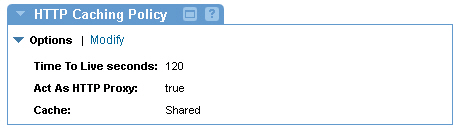
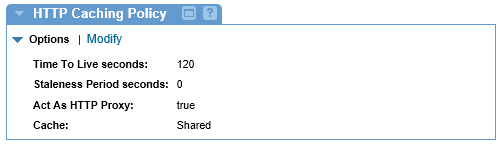
SM-13771 Add Staleness Period option HTTP caching

diff --git a/ag/policies/using_the_http_caching_policy.htm b/ag/policies/using_the_http_caching_policy.htm
@@ -66,6 +66,8 @@ nav-title: Using the HTTP Caching Policy
 <p>The policy includes the following configuration options:</p>
 <ul class="usingOrderedList">
   <li><strong>Time To Live</strong> - Allows you to specify the maxium time in seconds a response will be cached. If not specified, the maximum time will dictated by the SOA container settings. </li>
+  <li><strong>Staleness Period Seconds</strong> - If a value is entered, any cached entry will live in the cache for the number of seconds in Time To Live, plus number of seconds in Staleness Period.&nbsp; The &quot;stale&quot; portion of the entry will only be used if Cache-Control directives on the request allow for a stale entry to be used, by the use of max-stale directive.
+  The default is 0.&nbsp; </li>
   <li><strong>Act as HTTP Proxy</strong> - Uncheck to enable either the HTTP Proxy Mode (checked) or HTTP Mediation / Server Mode.</li>
   <li><strong>Shared Cache</strong> - Uncheck to enable  ability to use a private cache. You must also select a Subject Category (below). </li>
   <li><strong>Subject Category</strong> - Allows you to select a subject category if Shared Cache is unchecked. The subject category is used to find the cache's principal name that is set when the cache is created, and use it as part of the cache key.  </li>
@@ -87,9 +89,9 @@ nav-title: Using the HTTP Caching Policy
 <p>In Policy Manager, you can create a HTTPS Caching Policy instance using <strong>Add Policy</strong> in the <em>Policies &gt; Operational Policies</em> section. </p>
 <h5>Step 2: Modify Policy</h5>
 <p>When you <strong>Modify</strong> the HTTP Caching   policy on the <em>Policy Details</em> page the initial policy will look like this:</p>
-<p><img src="images/modify_http_caching_policy.jpg" width="477" height="511" /></p>
+<p><img src="images/modify_http_caching_policy.jpg" width="456" height="478" /></p>
 <p>Configure the policy options based on your requirements and <strong>Apply</strong>. </p>
-<p><img src="images/http_cache_policy_summary.jpg" width="454" height="132" /></p>
+<p><img src="images/http_cache_policy_summary.jpg" width="498" height="145" /></p>
 <h5>Step 3: Attach Policy</h5>
 <p>After you have saved your policy you can  attach it to a web service,  operation, or binding that you would like to enhance the message processing of.</p>
 <h5>Step 4: Test Policy and View Monitoring Data</h5>
